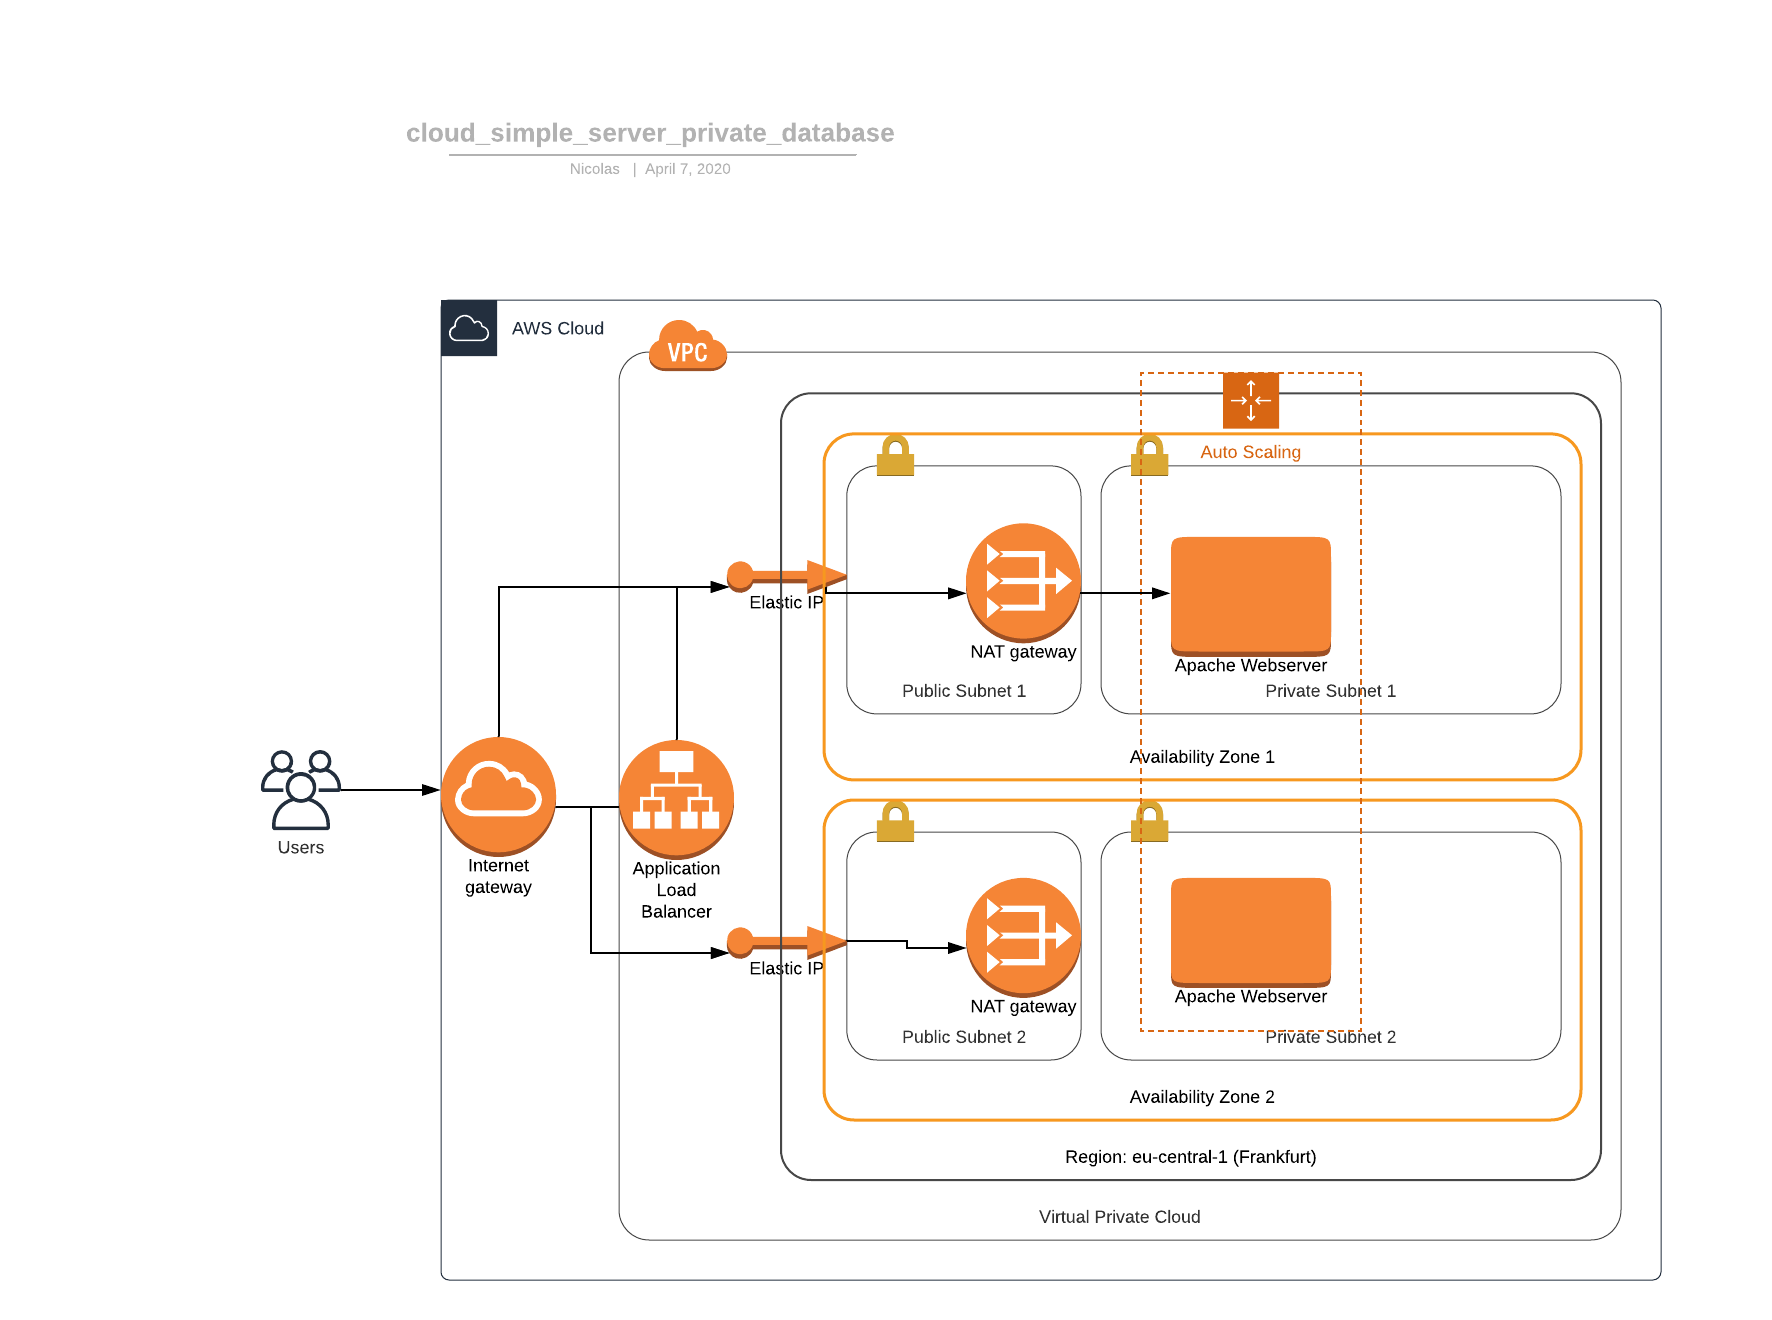
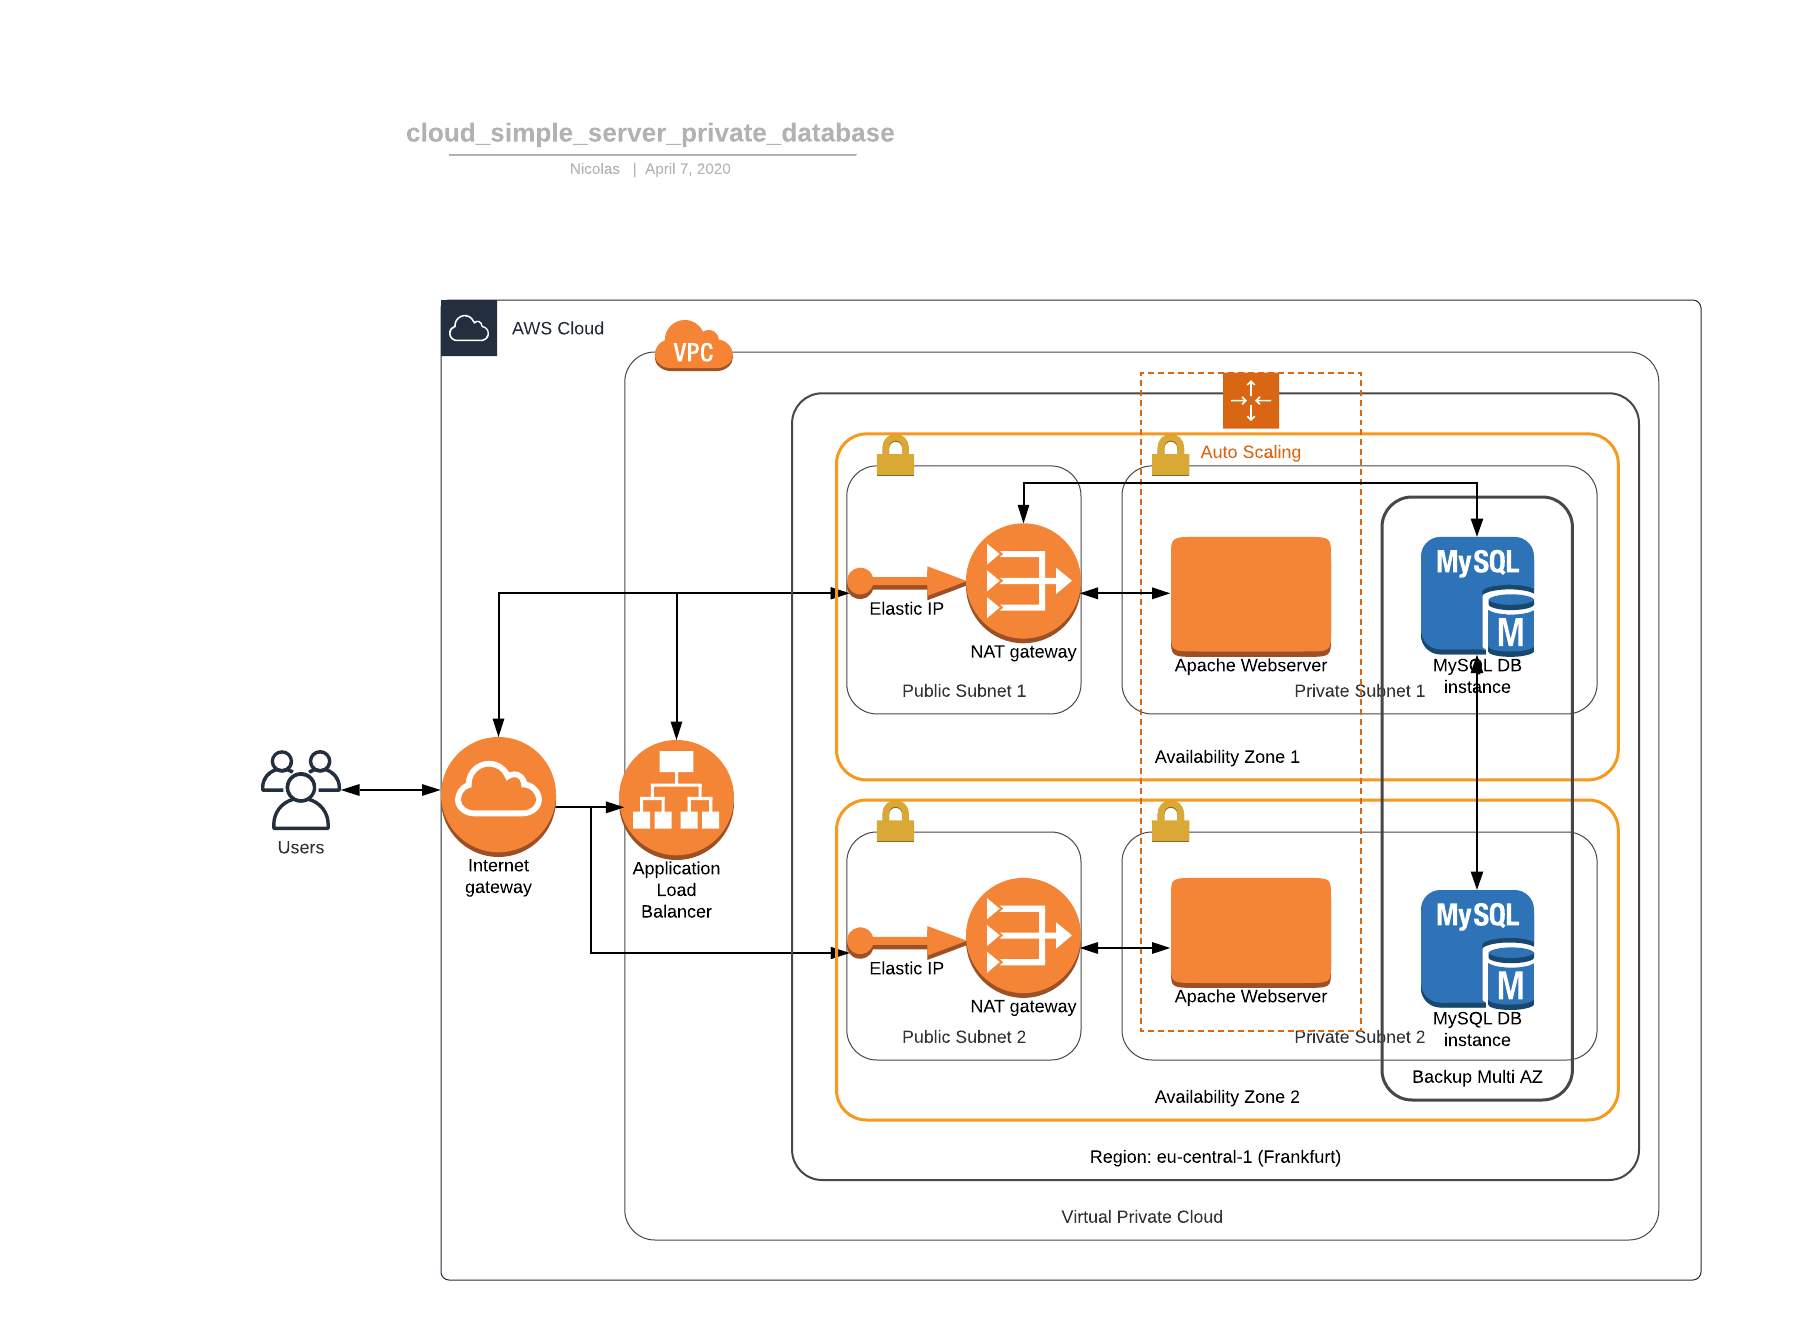
Added Database information to README

diff --git a/README.md b/README.md
@@ -1,15 +1,42 @@
 # AWS Sandbox
 
-A collection of exemplary code using Amazon Web Services which were mostly created learning the usage of AWS Services.
+A collection of exemplary code using Amazon Web Services which were mostly created learning the usage of AWS Services. All examples were created using the second version of the AWS client on linux. Steps, required to install it, are shown [here](https://docs.aws.amazon.com/de_de/cli/latest/userguide/install-cliv2.html).
 
 ## Simple Server with private database
 
-This example consists of a cloud architecture designed with AWS CloudFormation. It is built around a webserver that servers a customer with HTTP content containing data from a private local database. The webserver is scaled horizontally by spinning up/down virtual webserver instances depending on the requesting demand.The request load is well balanced over all webserver instances using a load balancer which forwards traffic via a public subnet to corresponding private subnets containing the "backend".
+This example consists of a cloud architecture designed with AWS CloudFormation. It is built around a webserver that servers a customer with a simple HTTP content. The webserver is scaled horizontally by spinning up/down virtual webserver instances depending on the requesting demand.The request load is well balanced over all webserver instances using a load balancer which forwards traffic via a public subnet to corresponding private subnets containing the "backend". The backend also contains a MySQL database which can later serve for more features of the webserver
 
 ![Schematics of the Cloud Architecture](cloud_simple_webserver_private_database/cloud_architecture.png)
+
+In order to create this architecture, run the following command:
+
+```
+cd <path-to-repository>/cloud_simple_server_private_database/
+```
+
+In the following the CloudFormation stacks with an arbitrary stack-name are created. Run the commands one by one, ensuring the stacks have been created successfully.
+
+```
+../manage_stack.sh test-network-1 cfn_network.yml parameters_network.json
+../manage_stack.sh test-webservers-1 cfn_webservers.yml parameters_webserver.json
+../manage_stack.sh test-database-1 cfn_databases.yml parameters_database.json
+```
+
 
 ## VPN Connection to the Virtual Private Cloud
 
 This example contains of the Infrastructure-as-Code files required to set up a VPN-Connection to a given private subnet within a Virtual Private Cloud using AWS CloudFormation. This is achieved by defining the VPN connection from the client-side gateway to the virtual private gateway (VGW) within the Virtual Private Cloud (VPC)
 
 ![Schematics of the Cloud Architecture](cloud_vpn_connection_private_subnets/cloud_architecture.png)
+
+In order to create this architecture, run the following command:
+
+```
+cd <path-to-repository>/cloud_simple_server_private_database/
+```
+
+In the following the CloudFormation stacks with an arbitrary stack-anme are created. Run the commands one by one, ensuring the stacks have been created successfully.
+
+```
+../manage_stack.sh test-network-2 cfn_network.yml parameters_network.json
+```
